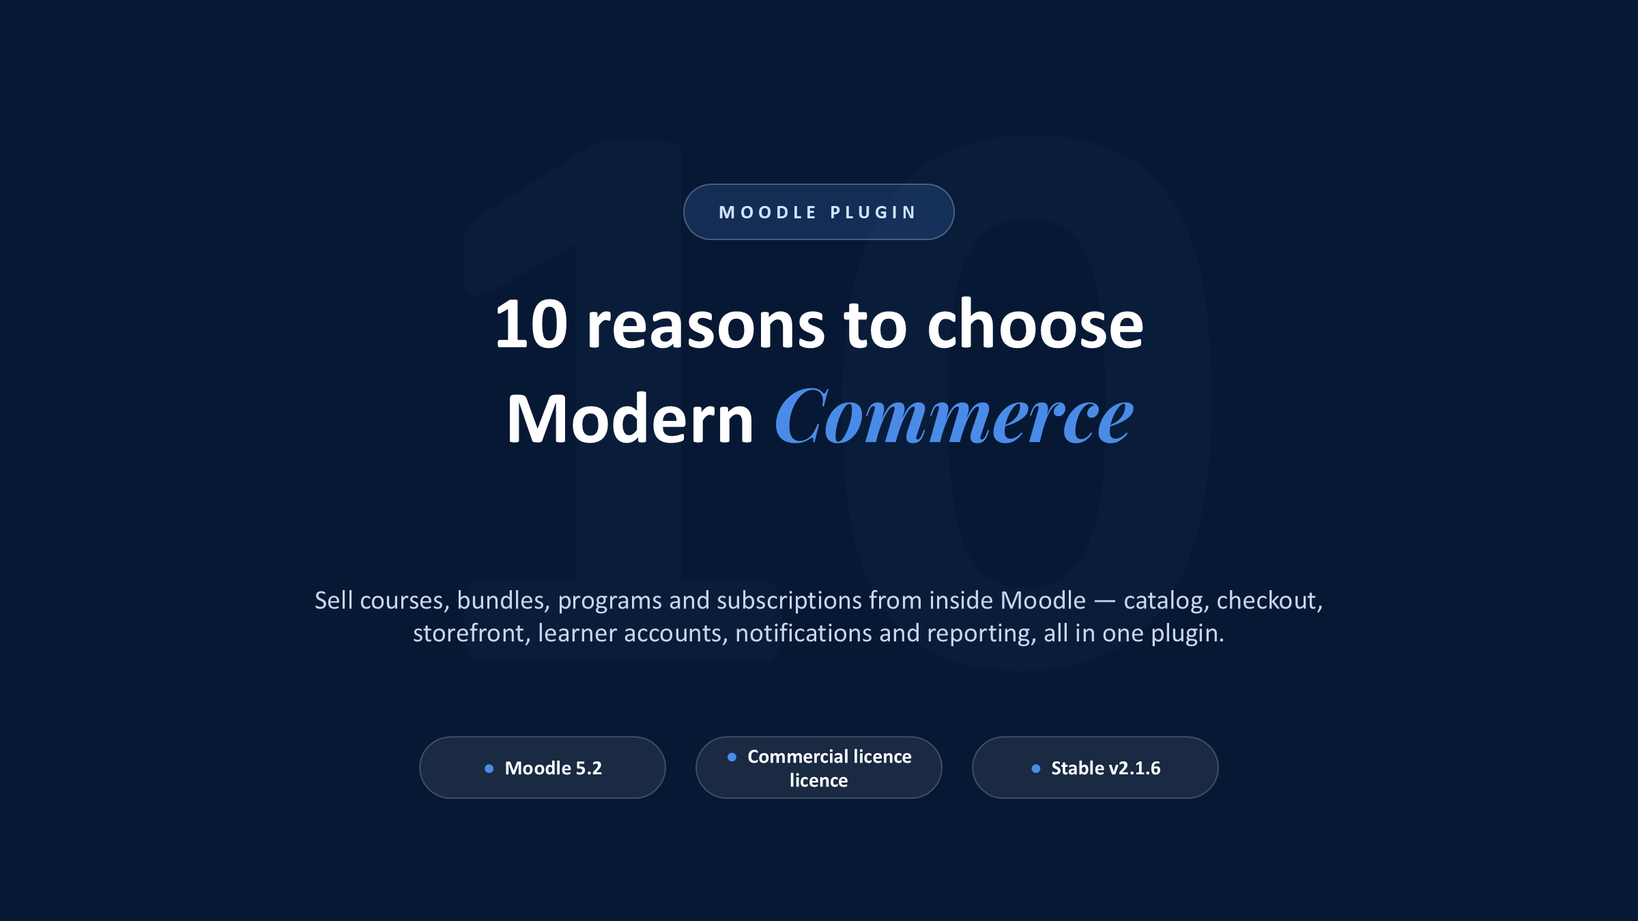
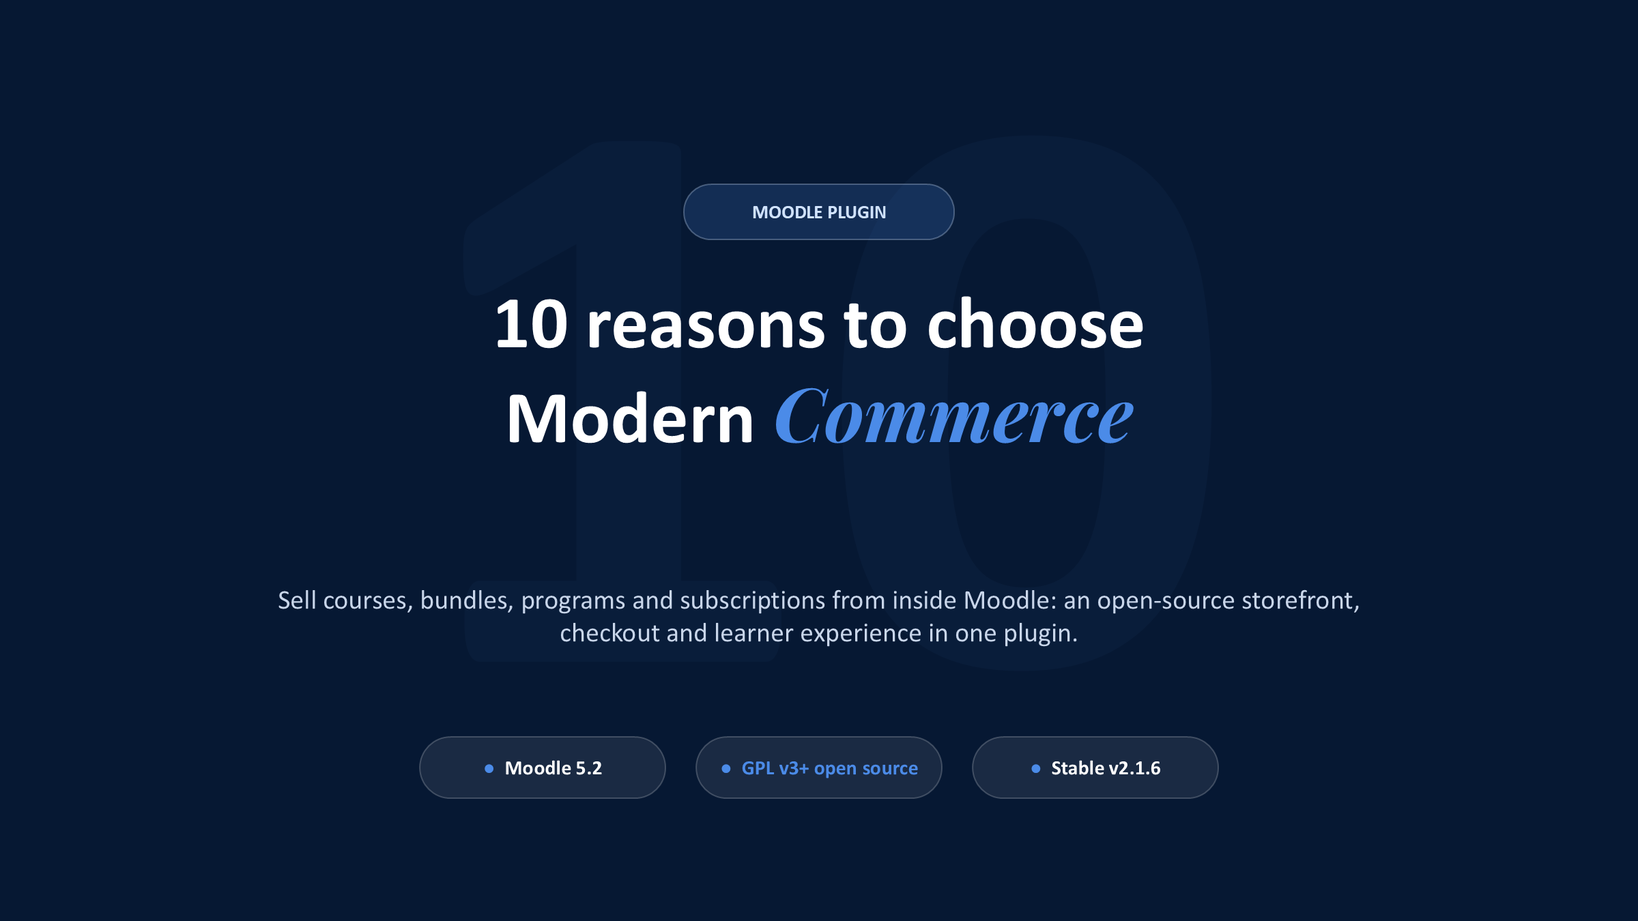
Update ModernCommerce open-source directory listing

Changed region(s): [[0.1875, 0.6222, 0.8125, 0.7156], [0.4375, 0.8089, 0.5625, 0.8711], [0.4375, 0.2178, 0.5625, 0.2489]]

diff --git a/public/images/plugins/modern-commerce/ten-reasons/plugins-directory.html b/public/images/plugins/modern-commerce/ten-reasons/plugins-directory.html
@@ -1,96 +1,57 @@
-<!-- Modern Commerce — Moodle Plugins Directory description. Paste into the HTML/code view of the description editor.
-     Styling uses ONLY purifier-safe inline styles; feature rows are paragraphs (not list items) so no disc renders. -->
-<div style="background-color:#F3F7FC;border:1px solid #E8F1FF;border-left:6px solid #4B8BE8;border-radius:14px;padding:28px 24px;margin-bottom:28px;">
-  <h2 style="color:#0F3D7A;margin:0 0 14px;">Modern Commerce</h2>
-  <p style="margin:0 0 12px;">Sell courses, bundles, programs and subscriptions from inside Moodle — catalog, checkout, storefront, learner accounts, notifications and reporting, all in one plugin.</p>
-  <p style="margin:8px 0 0;"><span style="background-color:#0F3D7A;color:#ffffff;padding:6px 14px;border-radius:999px;font-weight:bold;display:inline-block;">Moodle 5.2</span> <span style="background-color:#4B8BE8;color:#ffffff;padding:6px 14px;border-radius:999px;font-weight:bold;display:inline-block;">Commercial licence</span> <span style="background-color:#4B8BE8;color:#ffffff;padding:6px 14px;border-radius:999px;font-weight:bold;display:inline-block;">Stable v2.1.6</span></p>
-</div>
-<h2 style="color:#0F3D7A;text-align:center;margin:28px 0 4px;">10 reasons to choose Modern Commerce</h2>
-<p style="text-align:center;color:#4B8BE8;font-style:italic;margin:0 0 20px;">Click any image to view it full size.</p>
-<p style="text-align:center;"><a href="https://agunfoninteractivity.com/images/plugins/modern-commerce/ten-reasons/slides/02-sell-anything-you-teach.png" target="_blank" rel="noopener"><img src="https://agunfoninteractivity.com/images/plugins/modern-commerce/ten-reasons/slides/02-sell-anything-you-teach.png" alt="Sell anything you teach" width="800" style="max-width:100%;height:auto;border-radius:12px;border:1px solid #E8F1FF;" /></a></p>
-<p style="text-align:center;"><a href="https://agunfoninteractivity.com/images/plugins/modern-commerce/ten-reasons/slides/03-global-payments-four-gateways.png" target="_blank" rel="noopener"><img src="https://agunfoninteractivity.com/images/plugins/modern-commerce/ten-reasons/slides/03-global-payments-four-gateways.png" alt="Global payments, four gateways" width="800" style="max-width:100%;height:auto;border-radius:12px;border:1px solid #E8F1FF;" /></a></p>
-<p style="text-align:center;"><a href="https://agunfoninteractivity.com/images/plugins/modern-commerce/ten-reasons/slides/04-recurring-revenue-built-in.png" target="_blank" rel="noopener"><img src="https://agunfoninteractivity.com/images/plugins/modern-commerce/ten-reasons/slides/04-recurring-revenue-built-in.png" alt="Recurring revenue, built in" width="800" style="max-width:100%;height:auto;border-radius:12px;border:1px solid #E8F1FF;" /></a></p>
-<p style="text-align:center;"><a href="https://agunfoninteractivity.com/images/plugins/modern-commerce/ten-reasons/slides/05-a-storefront-you-arrange.png" target="_blank" rel="noopener"><img src="https://agunfoninteractivity.com/images/plugins/modern-commerce/ten-reasons/slides/05-a-storefront-you-arrange.png" alt="A storefront you arrange" width="800" style="max-width:100%;height:auto;border-radius:12px;border:1px solid #E8F1FF;" /></a></p>
-<p style="text-align:center;"><a href="https://agunfoninteractivity.com/images/plugins/modern-commerce/ten-reasons/slides/06-orders-invoices-and-refunds.png" target="_blank" rel="noopener"><img src="https://agunfoninteractivity.com/images/plugins/modern-commerce/ten-reasons/slides/06-orders-invoices-and-refunds.png" alt="Orders, invoices and refunds" width="800" style="max-width:100%;height:auto;border-radius:12px;border:1px solid #E8F1FF;" /></a></p>
-<p style="text-align:center;"><a href="https://agunfoninteractivity.com/images/plugins/modern-commerce/ten-reasons/slides/07-coupons-and-enrolment-keys.png" target="_blank" rel="noopener"><img src="https://agunfoninteractivity.com/images/plugins/modern-commerce/ten-reasons/slides/07-coupons-and-enrolment-keys.png" alt="Coupons and enrolment keys" width="800" style="max-width:100%;height:auto;border-radius:12px;border:1px solid #E8F1FF;" /></a></p>
-<p style="text-align:center;"><a href="https://agunfoninteractivity.com/images/plugins/modern-commerce/ten-reasons/slides/08-a-real-learner-account-area.png" target="_blank" rel="noopener"><img src="https://agunfoninteractivity.com/images/plugins/modern-commerce/ten-reasons/slides/08-a-real-learner-account-area.png" alt="A real learner account area" width="800" style="max-width:100%;height:auto;border-radius:12px;border:1px solid #E8F1FF;" /></a></p>
-<p style="text-align:center;"><a href="https://agunfoninteractivity.com/images/plugins/modern-commerce/ten-reasons/slides/09-recover-lost-sales-automatically.png" target="_blank" rel="noopener"><img src="https://agunfoninteractivity.com/images/plugins/modern-commerce/ten-reasons/slides/09-recover-lost-sales-automatically.png" alt="Recover lost sales automatically" width="800" style="max-width:100%;height:auto;border-radius:12px;border:1px solid #E8F1FF;" /></a></p>
-<p style="text-align:center;"><a href="https://agunfoninteractivity.com/images/plugins/modern-commerce/ten-reasons/slides/10-notify-learners-anywhere.png" target="_blank" rel="noopener"><img src="https://agunfoninteractivity.com/images/plugins/modern-commerce/ten-reasons/slides/10-notify-learners-anywhere.png" alt="Notify learners anywhere" width="800" style="max-width:100%;height:auto;border-radius:12px;border:1px solid #E8F1FF;" /></a></p>
-<p style="text-align:center;"><a href="https://agunfoninteractivity.com/images/plugins/modern-commerce/ten-reasons/slides/11-analytics-and-compliance.png" target="_blank" rel="noopener"><img src="https://agunfoninteractivity.com/images/plugins/modern-commerce/ten-reasons/slides/11-analytics-and-compliance.png" alt="Analytics and compliance" width="800" style="max-width:100%;height:auto;border-radius:12px;border:1px solid #E8F1FF;" /></a></p>
-<p style="color:#4B8BE8;font-weight:bold;letter-spacing:1.5px;font-size:13px;margin:40px 0 4px;">ALL FEATURES</p>
-<h2 style="color:#0F3D7A;margin:0 0 8px;">Everything in the box</h2>
-<div style="background-color:#ffffff;border:1px solid #E8F1FF;border-radius:14px;padding:18px 22px;margin-bottom:14px;">
-  <h3 style="color:#0F3D7A;margin:0 0 10px;">Sell anything you teach</h3>
-  <p style="margin:0 0 8px;color:#334155;"><span style="background-color:#E7F6EC;color:#16a34a;border-radius:999px;padding:0 6px;font-weight:bold;margin-right:8px;">&#10003;</span>Courses, bundles, programs and subscriptions in one catalog</p>
-  <p style="margin:0 0 8px;color:#334155;"><span style="background-color:#E7F6EC;color:#16a34a;border-radius:999px;padding:0 6px;font-weight:bold;margin-right:8px;">&#10003;</span>Full cart and checkout built into Moodle</p>
-  <p style="margin:0 0 0;color:#334155;"><span style="background-color:#E7F6EC;color:#16a34a;border-radius:999px;padding:0 6px;font-weight:bold;margin-right:8px;">&#10003;</span>Product pages, categories and detail views out of the box</p>
-</div>
-<div style="background-color:#ffffff;border:1px solid #E8F1FF;border-radius:14px;padding:18px 22px;margin-bottom:14px;">
-  <h3 style="color:#0F3D7A;margin:0 0 10px;">Global payments, four gateways</h3>
-  <p style="margin:0 0 8px;color:#334155;"><span style="background-color:#E7F6EC;color:#16a34a;border-radius:999px;padding:0 6px;font-weight:bold;margin-right:8px;">&#10003;</span>Stripe, PayPal, Paystack and Flutterwave supported</p>
-  <p style="margin:0 0 8px;color:#334155;"><span style="background-color:#E7F6EC;color:#16a34a;border-radius:999px;padding:0 6px;font-weight:bold;margin-right:8px;">&#10003;</span>Reach learners worldwide, including African payment rails</p>
-  <p style="margin:0 0 0;color:#334155;"><span style="background-color:#E7F6EC;color:#16a34a;border-radius:999px;padding:0 6px;font-weight:bold;margin-right:8px;">&#10003;</span>Switch or run multiple gateways from the admin console</p>
-</div>
-<div style="background-color:#ffffff;border:1px solid #E8F1FF;border-radius:14px;padding:18px 22px;margin-bottom:14px;">
-  <h3 style="color:#0F3D7A;margin:0 0 10px;">Recurring revenue, built in</h3>
-  <p style="margin:0 0 8px;color:#334155;"><span style="background-color:#E7F6EC;color:#16a34a;border-radius:999px;padding:0 6px;font-weight:bold;margin-right:8px;">&#10003;</span>Subscription plans with free trials and auto-billing</p>
-  <p style="margin:0 0 8px;color:#334155;"><span style="background-color:#E7F6EC;color:#16a34a;border-radius:999px;padding:0 6px;font-weight:bold;margin-right:8px;">&#10003;</span>Automatic renewals, expiry checks and access sync</p>
-  <p style="margin:0 0 0;color:#334155;"><span style="background-color:#E7F6EC;color:#16a34a;border-radius:999px;padding:0 6px;font-weight:bold;margin-right:8px;">&#10003;</span>Learners self-manage plans from their account</p>
-</div>
-<div style="background-color:#ffffff;border:1px solid #E8F1FF;border-radius:14px;padding:18px 22px;margin-bottom:14px;">
-  <h3 style="color:#0F3D7A;margin:0 0 10px;">A storefront you arrange</h3>
-  <p style="margin:0 0 8px;color:#334155;"><span style="background-color:#E7F6EC;color:#16a34a;border-radius:999px;padding:0 6px;font-weight:bold;margin-right:8px;">&#10003;</span>Drag-and-arrange, widget-driven storefront pages</p>
-  <p style="margin:0 0 8px;color:#334155;"><span style="background-color:#E7F6EC;color:#16a34a;border-radius:999px;padding:0 6px;font-weight:bold;margin-right:8px;">&#10003;</span>Multi-page layouts with ready-made presets</p>
-  <p style="margin:0 0 0;color:#334155;"><span style="background-color:#E7F6EC;color:#16a34a;border-radius:999px;padding:0 6px;font-weight:bold;margin-right:8px;">&#10003;</span>No theme edits or code required</p>
-</div>
-<div style="background-color:#ffffff;border:1px solid #E8F1FF;border-radius:14px;padding:18px 22px;margin-bottom:14px;">
-  <h3 style="color:#0F3D7A;margin:0 0 10px;">Orders, invoices and refunds</h3>
-  <p style="margin:0 0 8px;color:#334155;"><span style="background-color:#E7F6EC;color:#16a34a;border-radius:999px;padding:0 6px;font-weight:bold;margin-right:8px;">&#10003;</span>Complete order console with statuses and history</p>
-  <p style="margin:0 0 8px;color:#334155;"><span style="background-color:#E7F6EC;color:#16a34a;border-radius:999px;padding:0 6px;font-weight:bold;margin-right:8px;">&#10003;</span>Automatic PDF invoices learners can download</p>
-  <p style="margin:0 0 0;color:#334155;"><span style="background-color:#E7F6EC;color:#16a34a;border-radius:999px;padding:0 6px;font-weight:bold;margin-right:8px;">&#10003;</span>Process refunds in a click</p>
-</div>
-<div style="background-color:#ffffff;border:1px solid #E8F1FF;border-radius:14px;padding:18px 22px;margin-bottom:14px;">
-  <h3 style="color:#0F3D7A;margin:0 0 10px;">Coupons and enrolment keys</h3>
-  <p style="margin:0 0 8px;color:#334155;"><span style="background-color:#E7F6EC;color:#16a34a;border-radius:999px;padding:0 6px;font-weight:bold;margin-right:8px;">&#10003;</span>Discount coupons to drive promotions and launches</p>
-  <p style="margin:0 0 8px;color:#334155;"><span style="background-color:#E7F6EC;color:#16a34a;border-radius:999px;padding:0 6px;font-weight:bold;margin-right:8px;">&#10003;</span>Single and bulk enrolment-key redemption</p>
-  <p style="margin:0 0 0;color:#334155;"><span style="background-color:#E7F6EC;color:#16a34a;border-radius:999px;padding:0 6px;font-weight:bold;margin-right:8px;">&#10003;</span>Bundle keys for cohorts, resellers and B2B deals</p>
-</div>
-<div style="background-color:#ffffff;border:1px solid #E8F1FF;border-radius:14px;padding:18px 22px;margin-bottom:14px;">
-  <h3 style="color:#0F3D7A;margin:0 0 10px;">A real learner account area</h3>
-  <p style="margin:0 0 8px;color:#334155;"><span style="background-color:#E7F6EC;color:#16a34a;border-radius:999px;padding:0 6px;font-weight:bold;margin-right:8px;">&#10003;</span>My library, certificates, grades and calendar in one place</p>
-  <p style="margin:0 0 8px;color:#334155;"><span style="background-color:#E7F6EC;color:#16a34a;border-radius:999px;padding:0 6px;font-weight:bold;margin-right:8px;">&#10003;</span>Wishlist, order history and invoices for every buyer</p>
-  <p style="margin:0 0 0;color:#334155;"><span style="background-color:#E7F6EC;color:#16a34a;border-radius:999px;padding:0 6px;font-weight:bold;margin-right:8px;">&#10003;</span>Branded, React-powered learner dashboard</p>
-</div>
-<div style="background-color:#ffffff;border:1px solid #E8F1FF;border-radius:14px;padding:18px 22px;margin-bottom:14px;">
-  <h3 style="color:#0F3D7A;margin:0 0 10px;">Recover lost sales automatically</h3>
-  <p style="margin:0 0 8px;color:#334155;"><span style="background-color:#E7F6EC;color:#16a34a;border-radius:999px;padding:0 6px;font-weight:bold;margin-right:8px;">&#10003;</span>Abandoned-cart recovery runs on Moodle cron</p>
-  <p style="margin:0 0 8px;color:#334155;"><span style="background-color:#E7F6EC;color:#16a34a;border-radius:999px;padding:0 6px;font-weight:bold;margin-right:8px;">&#10003;</span>Automated payment reminders for unpaid orders</p>
-  <p style="margin:0 0 0;color:#334155;"><span style="background-color:#E7F6EC;color:#16a34a;border-radius:999px;padding:0 6px;font-weight:bold;margin-right:8px;">&#10003;</span>Turn drop-offs back into completed purchases</p>
-</div>
-<div style="background-color:#ffffff;border:1px solid #E8F1FF;border-radius:14px;padding:18px 22px;margin-bottom:14px;">
-  <h3 style="color:#0F3D7A;margin:0 0 10px;">📨 Notify learners anywhere</h3>
-  <p style="margin:0 0 8px;color:#334155;"><span style="background-color:#E7F6EC;color:#16a34a;border-radius:999px;padding:0 6px;font-weight:bold;margin-right:8px;">&#10003;</span>Email, Moodle message, Slack, Teams and webhooks</p>
-  <p style="margin:0 0 8px;color:#334155;"><span style="background-color:#E7F6EC;color:#16a34a;border-radius:999px;padding:0 6px;font-weight:bold;margin-right:8px;">&#10003;</span>Central queue with digests and suppression</p>
-  <p style="margin:0 0 0;color:#334155;"><span style="background-color:#E7F6EC;color:#16a34a;border-radius:999px;padding:0 6px;font-weight:bold;margin-right:8px;">&#10003;</span>One notification hub for the whole store</p>
-</div>
-<div style="background-color:#ffffff;border:1px solid #E8F1FF;border-radius:14px;padding:18px 22px;margin-bottom:14px;">
-  <h3 style="color:#0F3D7A;margin:0 0 10px;">📊 Analytics and compliance</h3>
-  <p style="margin:0 0 8px;color:#334155;"><span style="background-color:#E7F6EC;color:#16a34a;border-radius:999px;padding:0 6px;font-weight:bold;margin-right:8px;">&#10003;</span>Sales dashboard charts and scheduled reports</p>
-  <p style="margin:0 0 8px;color:#334155;"><span style="background-color:#E7F6EC;color:#16a34a;border-radius:999px;padding:0 6px;font-weight:bold;margin-right:8px;">&#10003;</span>GDPR privacy provider and full audit logging</p>
-  <p style="margin:0 0 0;color:#334155;"><span style="background-color:#E7F6EC;color:#16a34a;border-radius:999px;padding:0 6px;font-weight:bold;margin-right:8px;">&#10003;</span>Single-currency, capability-based access control</p>
-</div>
-<div style="background-color:#ffffff;border:1px solid #E8F1FF;border-radius:14px;padding:18px 22px;margin-bottom:14px;">
-  <h3 style="color:#0F3D7A;margin:0 0 10px;">🔒 Requirements &amp; things to know</h3>
-  <p style="margin:0 0 8px;color:#334155;"><span style="background-color:#E7F6EC;color:#16a34a;border-radius:999px;padding:0 6px;font-weight:bold;margin-right:8px;">&#10003;</span>Moodle 5.2, PHP 8.3 or later, Moodle cron enabled, and HTTPS for live gateways and webhooks</p>
-  <p style="margin:0 0 8px;color:#334155;"><span style="background-color:#E7F6EC;color:#16a34a;border-radius:999px;padding:0 6px;font-weight:bold;margin-right:8px;">&#10003;</span>Payment gateways require your own merchant accounts and API keys (Stripe, PayPal, Paystack, Flutterwave) — no sale can be taken until at least one is configured</p>
-  <p style="margin:0 0 8px;color:#334155;"><span style="background-color:#E7F6EC;color:#16a34a;border-radius:999px;padding:0 6px;font-weight:bold;margin-right:8px;">&#10003;</span>Optional external services: Slack / Microsoft Teams webhooks and Google reCAPTCHA</p>
-  <p style="margin:0 0 8px;color:#334155;"><span style="background-color:#E7F6EC;color:#16a34a;border-radius:999px;padding:0 6px;font-weight:bold;margin-right:8px;">&#10003;</span>One active store currency, selectable from 21 supported currencies</p>
-  <p style="margin:0 0 8px;color:#334155;"><span style="background-color:#E7F6EC;color:#16a34a;border-radius:999px;padding:0 6px;font-weight:bold;margin-right:8px;">&#10003;</span>Processes personal data to fulfil orders — a full Moodle Privacy API provider is included for GDPR export and erasure</p>
-  <p style="margin:0 0 8px;color:#334155;"><span style="background-color:#E7F6EC;color:#16a34a;border-radius:999px;padding:0 6px;font-weight:bold;margin-right:8px;">&#10003;</span>No dependency on any other plugin</p>
-  <p style="margin:0 0 0;color:#334155;"><span style="background-color:#E7F6EC;color:#16a34a;border-radius:999px;padding:0 6px;font-weight:bold;margin-right:8px;">&#10003;</span>Proprietary commercial licence (not GPL), purchased per site; includes one year of updates and priority support</p>
-</div>
-<div style="background-color:#061833;border-radius:16px;padding:32px 24px;text-align:center;margin:28px 0;">
-  <h2 style="color:#ffffff;margin:0 0 18px;">Convinced?</h2>
-  <p style="text-align:center;margin:0 0 18px;"><a href="https://agunfoninteractivity.com/plugins/modern-commerce"><img src="https://agunfoninteractivity.com/images/plugins/modern-commerce/ten-reasons/slides/12-convinced.png" alt="Convinced? BUY NOW" width="800" style="max-width:100%;height:auto;border-radius:12px;" /></a></p>
-  <p style="text-align:center;margin:0;"><a href="https://agunfoninteractivity.com/plugins/modern-commerce" style="background-color:#4B8BE8;color:#ffffff;padding:14px 34px;border-radius:10px;font-weight:bold;text-decoration:none;display:inline-block;">BUY NOW &raquo;</a></p>
-</div>
+<!-- ModernCommerce Moodle Plugins Directory description. Purifier-safe HTML, under 7,000 characters. -->
+<h2>ModernCommerce for Moodle</h2>
+<p><strong>Turn Moodle into a complete, open-source course store.</strong> ModernCommerce lets training providers sell courses, bundles, programs and subscriptions without running a separate WordPress or ecommerce site. The catalog, cart, checkout, enrolment, learner account and store administration all stay inside Moodle.</p>
+<p><strong>Free software under GNU GPL v3 or later &middot; Moodle 5.2 &middot; PHP 8.3+ &middot; Stable v2.1.6</strong></p>
+<p>ModernCommerce is maintained by Agunfon Interactivity LLC. You can inspect, adapt and extend the code for your Moodle site. Community support is best effort; professional installation, migration, integration and managed support are available separately.</p>
+
+<p style="text-align:center;"><img src="https://agunfoninteractivity.com/images/plugins/modern-commerce/ten-reasons/slides/01-10-reasons-to-choose-modern-commerce.png" alt="10 reasons to choose ModernCommerce" width="800"></p>
+
+<h3>1. Sell anything you teach</h3>
+<p>Sell individual courses, multi-course bundles, structured programs and recurring subscription plans from one catalog.</p>
+<p style="text-align:center;"><img src="https://agunfoninteractivity.com/images/plugins/modern-commerce/ten-reasons/slides/02-sell-anything-you-teach.png" alt="Sell courses, bundles, programs and subscriptions" width="800"></p>
+
+<h3>2. Accept payments through four gateways</h3>
+<p>Connect your own Stripe, PayPal, Paystack or Flutterwave merchant account. Signed webhooks, payment-event tracking and diagnostic logs support reliable payment operations.</p>
+<p style="text-align:center;"><img src="https://agunfoninteractivity.com/images/plugins/modern-commerce/ten-reasons/slides/03-global-payments-four-gateways.png" alt="Stripe, PayPal, Paystack and Flutterwave gateways" width="800"></p>
+
+<h3>3. Build recurring revenue</h3>
+<p>Create subscription plans with trials, recurring billing, retries, plan changes, expiry handling and automatic access synchronization.</p>
+<p style="text-align:center;"><img src="https://agunfoninteractivity.com/images/plugins/modern-commerce/ten-reasons/slides/04-recurring-revenue-built-in.png" alt="Recurring subscriptions built into Moodle" width="800"></p>
+
+<h3>4. Arrange a storefront that fits your brand</h3>
+<p>Build configurable storefront pages with widgets, presets, categories, product details, brand settings and custom email templates.</p>
+<p style="text-align:center;"><img src="https://agunfoninteractivity.com/images/plugins/modern-commerce/ten-reasons/slides/05-a-storefront-you-arrange.png" alt="Configurable widget-driven storefront" width="800"></p>
+
+<h3>5. Manage orders, invoices and refunds</h3>
+<p>Track order history and payment status, provide downloadable PDF invoices and manage refunds from the order console.</p>
+<p style="text-align:center;"><img src="https://agunfoninteractivity.com/images/plugins/modern-commerce/ten-reasons/slides/06-orders-invoices-and-refunds.png" alt="Orders, PDF invoices and refunds" width="800"></p>
+
+<h3>6. Run promotions and distribute enrolment keys</h3>
+<p>Create coupons and prepaid single or bulk enrolment keys for learners, cohorts, resellers and business customers.</p>
+<p style="text-align:center;"><img src="https://agunfoninteractivity.com/images/plugins/modern-commerce/ten-reasons/slides/07-coupons-and-enrolment-keys.png" alt="Coupons and enrolment keys" width="800"></p>
+
+<h3>7. Give learners one account area</h3>
+<p>Learners can access courses, bundles, certificates, grades, wishlists, subscriptions, orders and invoices from a consistent self-service workspace.</p>
+<p style="text-align:center;"><img src="https://agunfoninteractivity.com/images/plugins/modern-commerce/ten-reasons/slides/08-complete-learner-account.png" alt="Complete learner account" width="800"></p>
+
+<h3>8. Bring learners back to checkout</h3>
+<p>Use Moodle cron for abandoned-cart recovery and payment reminders that give learners a clear path back to incomplete orders.</p>
+<p style="text-align:center;"><img src="https://agunfoninteractivity.com/images/plugins/modern-commerce/ten-reasons/slides/09-recover-lost-sales-automatically.png" alt="Abandoned-cart recovery and payment reminders" width="800"></p>
+
+<h3>9. Keep learners and store teams informed</h3>
+<p>Send learner communication through email and Moodle messages. Optional Slack and Microsoft Teams webhooks provide operational alerts, with queued delivery, digests and suppression controls.</p>
+<p style="text-align:center;"><img src="https://agunfoninteractivity.com/images/plugins/modern-commerce/ten-reasons/slides/10-learners-informed-teams-aligned.png" alt="Learner communication and operational alerts" width="800"></p>
+
+<h3>10. Use software that is open source by design</h3>
+<p>ModernCommerce is licensed under GNU GPL v3 or later. Inspect, adapt and extend it while retaining Moodle privacy support, audit logging and capability-based access controls.</p>
+<p style="text-align:center;"><img src="https://agunfoninteractivity.com/images/plugins/modern-commerce/ten-reasons/slides/11-open-source-by-design.png" alt="Open source under GNU GPL v3 or later" width="800"></p>
+
+<h3>Requirements and disclosures</h3>
+<p>&#10003; Requires Moodle 5.2, PHP 8.3+, Composer 2, Moodle cron and HTTPS for production gateways and webhooks.<br>
+&#10003; Payment gateways require your own merchant accounts and credentials. Card capture occurs on the selected gateway.<br>
+&#10003; Optional external services include Slack and Microsoft Teams webhooks. Optional add-ons are safely gated when absent.<br>
+&#10003; The plugin processes buyer, order, invoice, subscription and related store data. A Moodle Privacy API provider supports export and deletion workflows.<br>
+&#10003; No other Moodle plugin is required.</p>
+
+<p style="text-align:center;"><img src="https://agunfoninteractivity.com/images/plugins/modern-commerce/ten-reasons/slides/12-ready-to-start.png" alt="Get ModernCommerce free and open source" width="800"></p>
+<p style="text-align:center;"><strong><a href="https://moderncommerce.dev/" target="_blank" rel="noopener">Project website and documentation</a> &middot; <a href="https://github.com/adebareshowemimo/moodle-local_moderncommerce" target="_blank" rel="noopener">Source code</a> &middot; <a href="https://moderncommerce.dev/support" target="_blank" rel="noopener">Professional support</a></strong></p>
